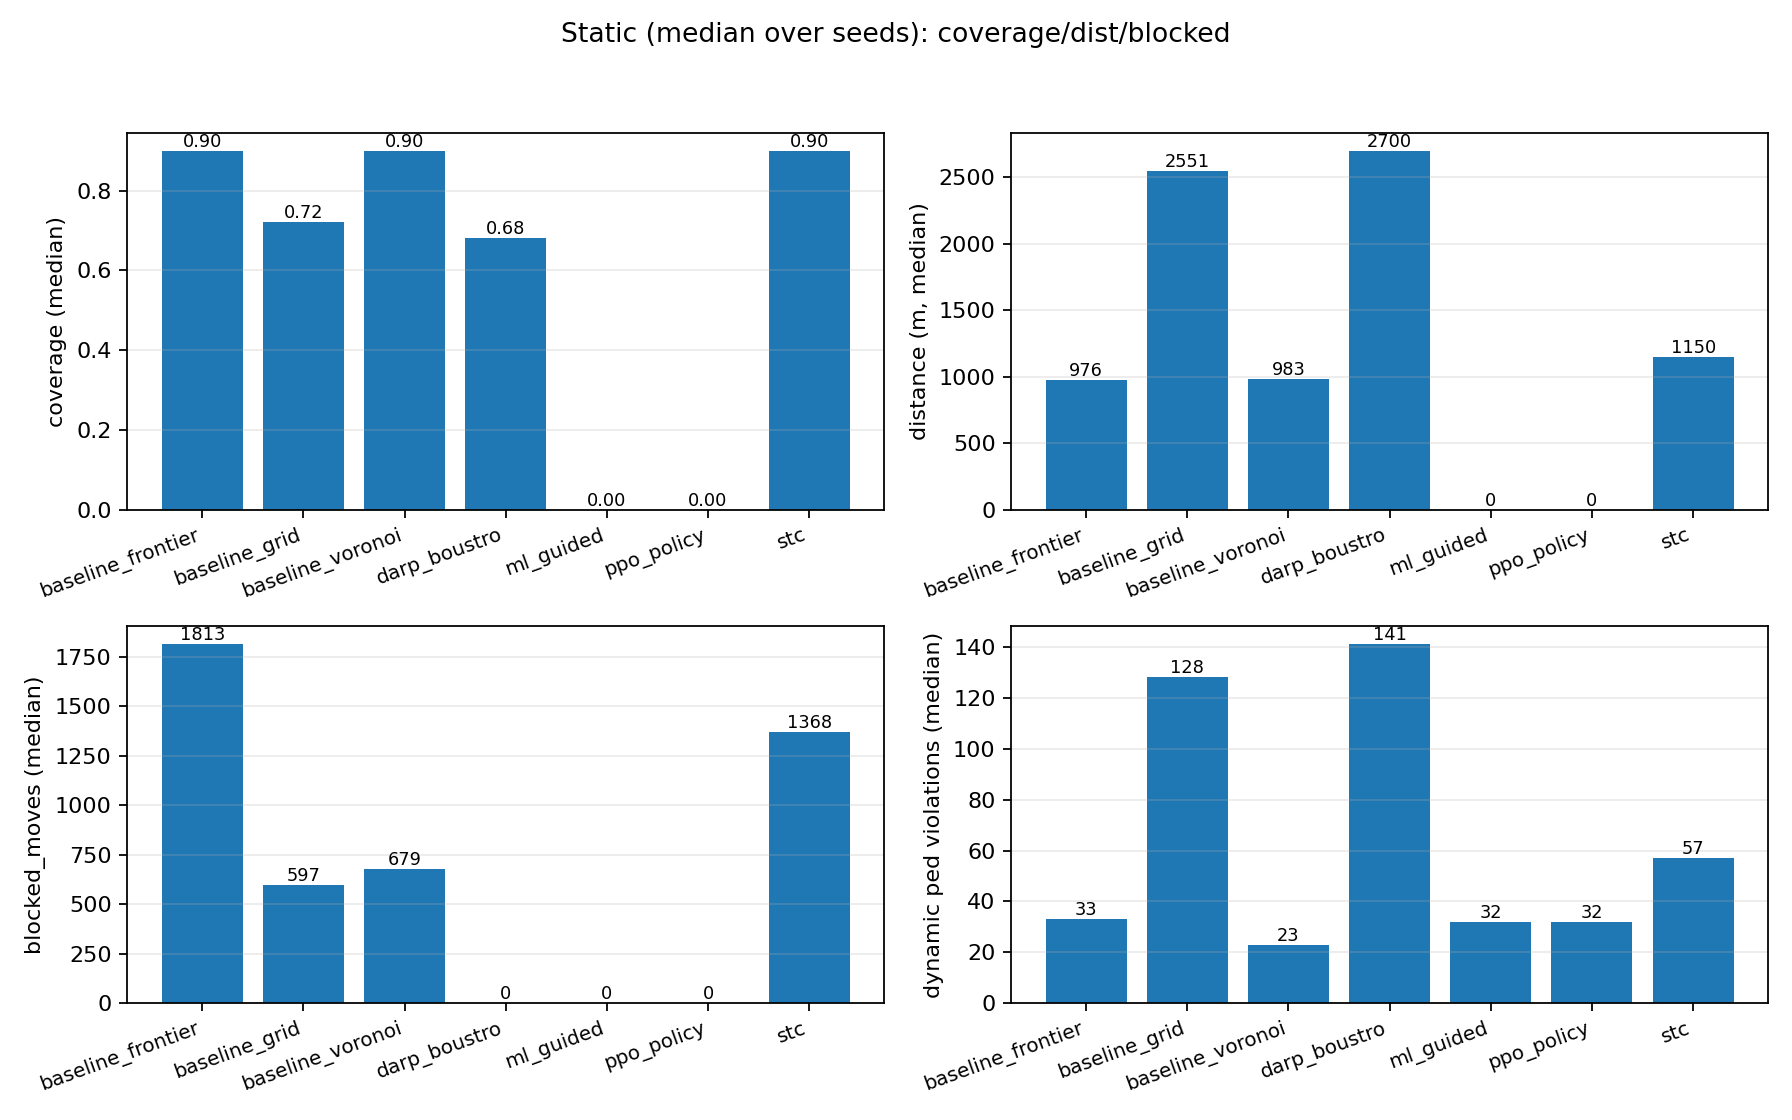
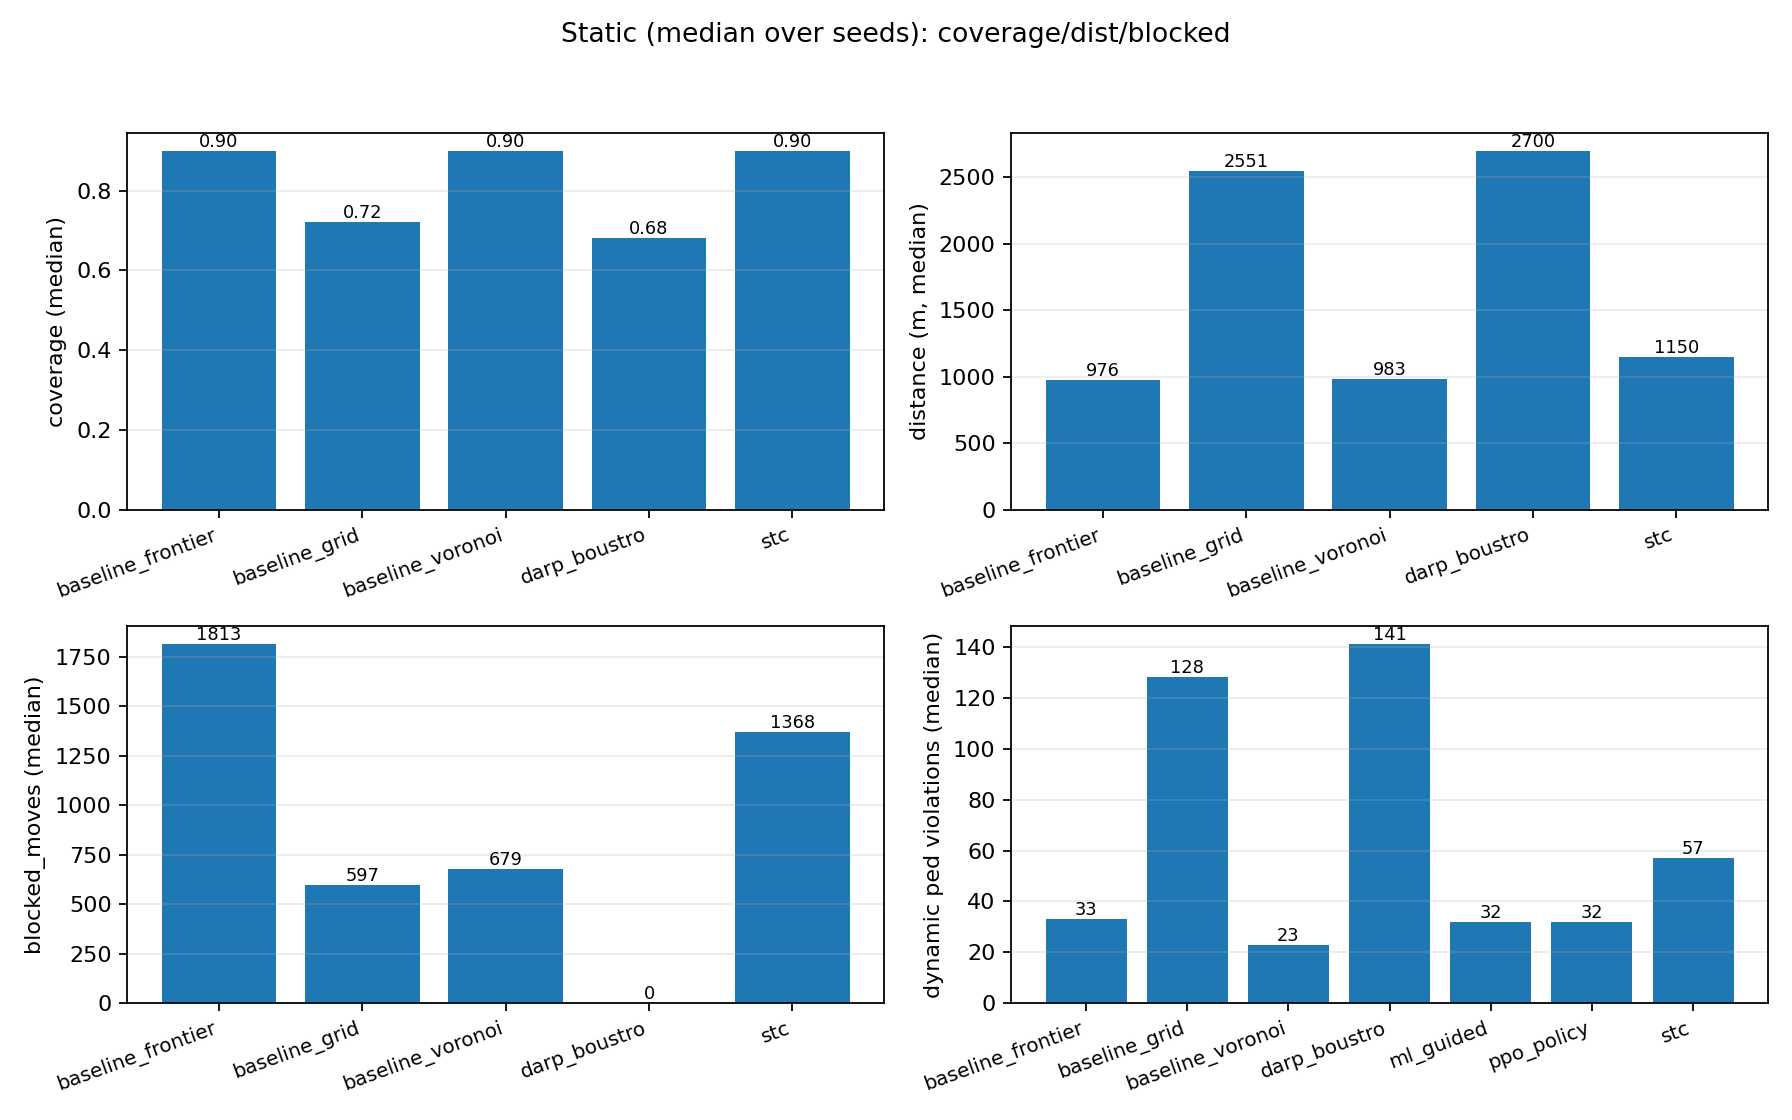
Обновление отображения метрик

diff --git a/scripts/build_presentation_report.py b/scripts/build_presentation_report.py
@@ -54,13 +54,24 @@ def render_2x2_panel(
     fig.suptitle(title)
 
     for ax, (mkey, label, fmt) in zip(axes.flat, metrics):
+        present = []
         vals = []
         for a in algos:
             v = algo_stats.get(a, {}).get(mkey)
-            vals.append(0.0 if v is None else float(v))
-        ax.bar(range(len(algos)), vals)
-        ax.set_xticks(range(len(algos)))
-        ax.set_xticklabels(algos, rotation=20, ha="right", fontsize=9)
+            if v is None:
+                continue
+            present.append(a)
+            vals.append(float(v))
+        if not present:
+            ax.text(0.5, 0.5, "No data", ha="center", va="center", transform=ax.transAxes, fontsize=11)
+            ax.set_xticks([])
+            ax.set_yticks([])
+            ax.set_ylabel(label)
+            ax.grid(False)
+            continue
+        ax.bar(range(len(present)), vals)
+        ax.set_xticks(range(len(present)))
+        ax.set_xticklabels(present, rotation=20, ha="right", fontsize=9)
         ax.set_ylabel(label)
         # annotate bars
         for i, v in enumerate(vals):
